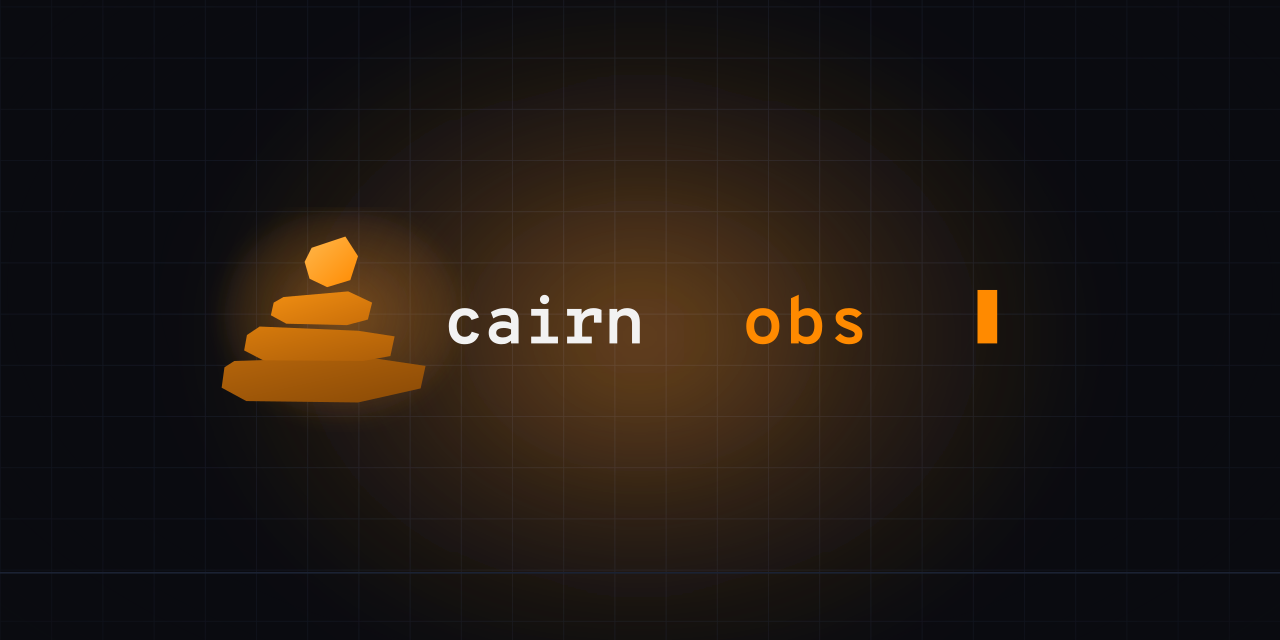
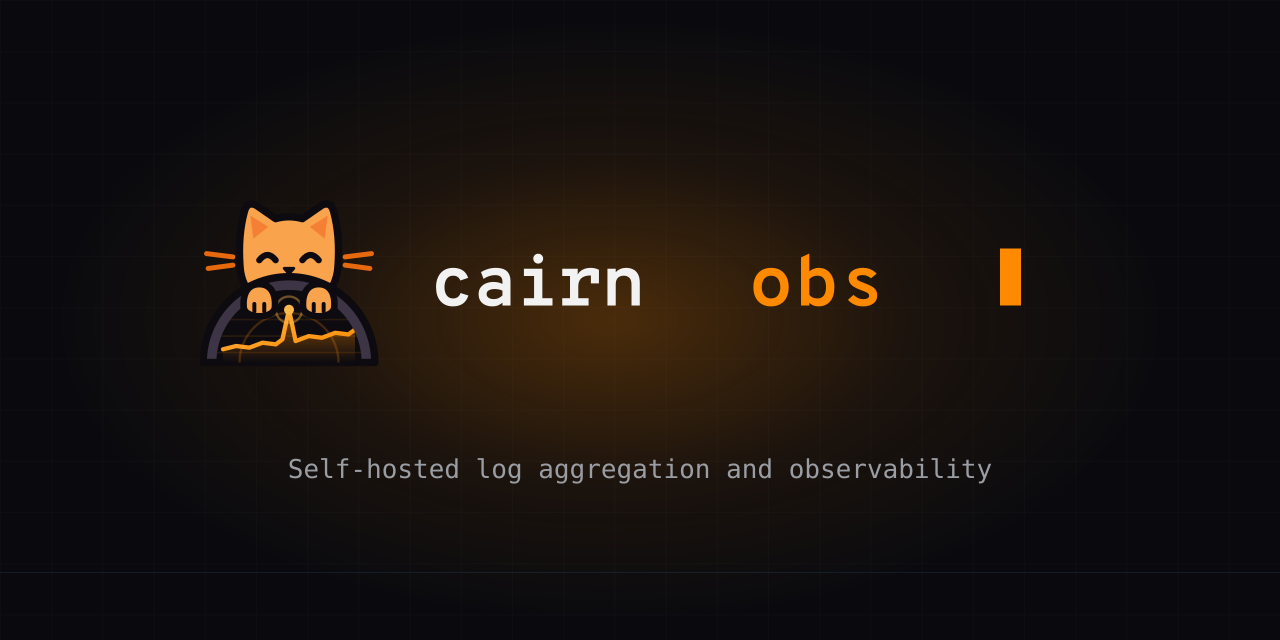
Replace the cairn mark with the scope kitten
The four-stone cairn kept being read as something it isn't. v3 is the Coffey Labs family kitten peeking over a half scope with a spiking time series, generated by the logo bundle and copied in under the existing names, so no import changes. Favicons use a small cut; the social preview and the banner scene are regenerated; the assets README describes v3.

Changed region(s): [[0.1562, 0.3125, 0.7812, 0.8125], [0.75, 0.375, 0.8125, 0.5625]]

diff --git a/web/src/lib/assets/README.md b/web/src/lib/assets/README.md
@@ -1,12 +1,14 @@
 # Brand assets
 
-Cairn OBS logo package **v2 ("faceted glow")**. Source package:
-`cairn-obs-logo-v2`, copied in here and renamed to this directory's
-convention (the `cairn-obs-` prefix is dropped -- the directory already
-says whose brand it is).
+Cairn OBS logo package **v3 ("scope kitten")**: the Coffey Labs family
+kitten peeking over a half scope whose screen shows a time series with one
+spike. It replaces v2's four faceted stones. The files are generated by the
+Coffey Labs logo bundle's `source/gen.py` (kept outside this repository) and
+copied in under this directory's names, so every import kept working.
 
-Everything is a plain `<polygon>` over four shared gradient stops, so a
-re-theme is a find/replace on the stops rather than a redraw.
+Two cuts of the mark: the full one, and a **small cut** for 40 px and below
+(`favicon.svg` and the 16/32/48 rasters) that drops the paws, whiskers and
+grid lines, which turn to mush that small.
 
 ## What the app actually uses
 
@@ -21,24 +23,15 @@ so Vite does not emit them into the bundle:
 
 - `icon-glow.svg` / `icon-flat.svg` -- mark only, with and without the
   ambient glow. Use `-flat` anywhere an SVG filter gets stripped.
-- `icon-mono-white.svg` / `icon-mono-black.svg` -- single-colour
-  silhouettes.
+- `icon-mono-white.svg` / `icon-mono-black.svg` -- single colour, with
+  the face, paws and trace knocked out.
 - `wordmark-dark.svg` / `wordmark-light.svg` -- text only.
 - `hero-grid.svg` -- 800x480 banner scene (social card, splash).
 
 Raster favicons live in `web/static/icons/` (16/32/48/180/512), served
 from `/icons/` and referenced by absolute path in the layout head.
 
-## Two things to know before editing
-
-**`logo-stacked-light.svg` is derived, not vendored.** The v2 package
-ships no light-background stacked lockup, but the landing page needs one
-for light theme. It is the stacked-dark file with the treatment the
-package itself applies to its horizontal pair: same stone geometry and
-gradients, ambient glow dropped (it reads as haze on white), wordmark
-switched to the light-surface ink and accent (`#111315` / `#E6690E`).
-If the package is refreshed, re-derive it rather than assuming an
-upstream file appeared.
+## Before editing
 
 **The wordmark is outlined, not live text.** Upstream ships the lockups
 with a `<text>` element set in `'JetBrains Mono','Fira Code',ui-monospace,
@@ -56,57 +49,22 @@ conversion is scripted:
 
     python3 web/scripts/outline-wordmark.py
 
-Re-run it after refreshing the package from upstream (upstream will ship
-live `<text>` again). It rewrites only `<text>` elements, leaves every
-other byte alone, and skips files that have none, so it is safe to re-run.
-Editing the wordmark's copy or spacing now means editing the upstream
-`<text>` and re-running the script -- not hand-editing path data.
+The v3 bundle reuses these outlines, so its lockups arrive already
+outlined. The script rewrites only `<text>` elements, leaves every other
+byte alone, and skips files that have none, so it is safe to re-run.
+Editing the wordmark's copy or spacing means editing a `<text>` and
+re-running the script -- not hand-editing path data.
 
 ## Repository social preview
 
-**`/docs/assets/social-preview.png` is derived, not vendored.** GitHub's
-social card wants a 1280x640 raster; the package ships no such file, and
-`hero-grid.svg` alone shows the mark with no project name -- fine as a
-splash, wrong for a card that several platforms render without any
-accompanying repo title.
-
-Built from two files already here, so it re-derives rather than needing
-a redraw:
-
-```sh
-# 1. hero-grid without its cairn: the four stones live in one
-#    <g transform="translate(200,60)"> -- drop that group and the base
-#    fill, grid pattern and vignette are left intact.
-# 2. render background at target resolution, then crop 5:3 -> 2:1.
-#    96px off the top (empty grid) and 32px off the bottom, NOT a
-#    centre-crop: the composition sits low and crowds the bottom edge.
-rsvg-convert -w 1280 -h 768 hero-grid-no-cairn.svg -o bg.png
-magick bg.png -crop 1280x640+0+96 +repage bg640.png
-
-# 3. composite the package's own horizontal lockup, so mark-to-wordmark
-#    spacing stays the designer's rather than something re-invented.
-rsvg-convert -w 900 -h 225 logo-horizontal-dark.svg -o lockup.png
-magick bg640.png lockup.png -gravity center -composite social-preview.png
-```
-
-`-dark` on purpose: the banner ground is `#0A0B10`, so the lockup needs
-the `#F2F2F2` ink meant for dark surfaces.
-
-Re-running the above reproduces the committed file pixel for pixel
-(`magick compare -metric AE` returns 0), but *not* byte for byte -- PNG
-writes a timestamp chunk. Compare pixels, not `sha256sum`.
-
-The wide gaps in `cairn   obs   |` are the wordmark's intended spacing,
-not a missing font -- the glyphs are outlined `<path>` data and there is
-no `font-family` anywhere in the file. Do not "fix" them.
-
-**Not yet applied.** GitHub only offers Settings -> General -> Social
-preview on public repositories; the section is absent while this repo is
-private. Upload it when that changes.
+`/docs/assets/social-preview.png` (1280x640) comes from the same bundle:
+the dark horizontal lockup on the banner grid with a one-line description.
+GitHub only uses it once it is uploaded under Settings -> General -> Social
+preview.
 
 ## Aspect ratios
 
-Changed from v1 -- constrain one axis and leave the other `auto`:
+Unchanged since v2 -- constrain one axis and leave the other `auto`:
 
 - horizontal lockups: 640x160 (v1 was 600x140)
 - stacked lockups: 360x320, **not square** (v1 was 360x360)
